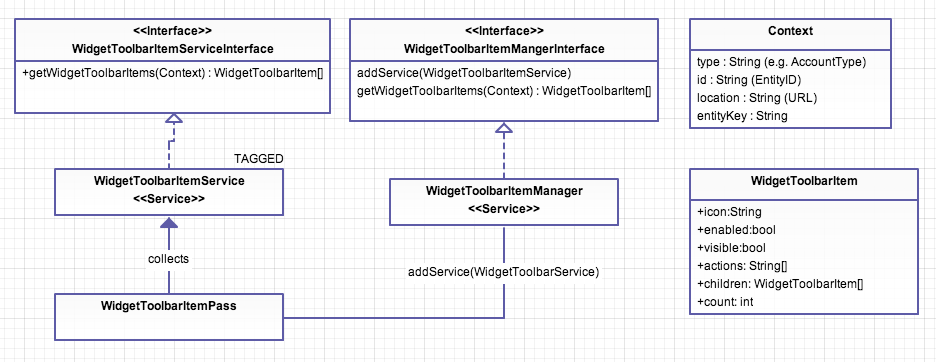
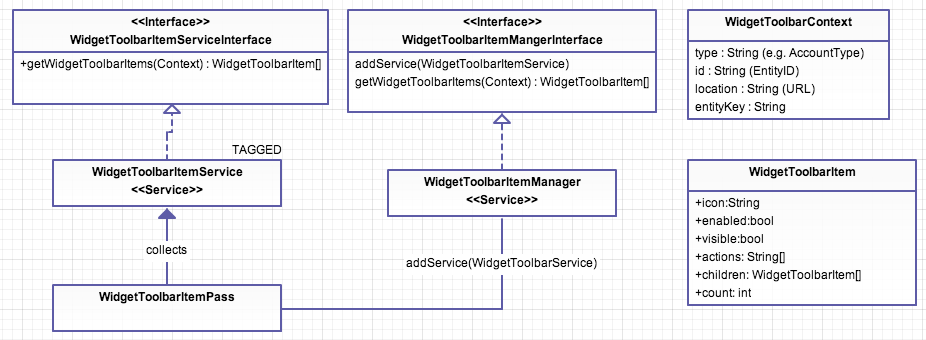
worked on documentation for widget toolbar item

diff --git a/detail-specification/100-basic/DET-106-Widgets.md b/detail-specification/100-basic/DET-106-Widgets.md
@@ -158,14 +158,35 @@ class SuluContactBundle extends Bundle
     </div>
 </div>
 ```
+```
 
-## Frontend
+##Frontend
 
 TODO
 
 
-## Widget Toolbar
+##Widget Toolbar
 
 Basic idea behind the handling of the toolbar items:
+
+###WidgetToolbarItemService
+A WidgetToolbarItemService should implement the WidgetToolbarItemServiceInterface and provides WidgetToolbarItems for the toolbar in the sidebar. Each WidgetToolbaritemPass will be collected by the WidgetToolbarItemPass when it has the `sulu.widget.toolbar_item` tag.
+
+###WidgetToolbarItemPass
+The WidgetToolbarItemPass will collect the tagged WidgetToolbarItemServices and add them to the WidgetToolbarItemManager.
+
+###WidgetToolbarItemManager
+The WidgetToolbarItemManager holds a set of WidgetToolbarItemServices and will delegate the getWidgetToolbarItems method call to each service.
+
+```
+sulu_admin.widgets_toolbar_item_manager:
+	class: %sulu_admin.widgets_toolbar_item_manager.class%
+```
+
+###WidgetToolbarContext
+This object is just a container for the current context.
+
+###WidgetToolbarItem
+This object is just a container which holds all information needed for the toolbar to render a icon.
 
 ![image](https://raw.githubusercontent.com/sulu-cmf/docs/master/detail-specification/images/diagrams/WidgetToolbarItem.png)
